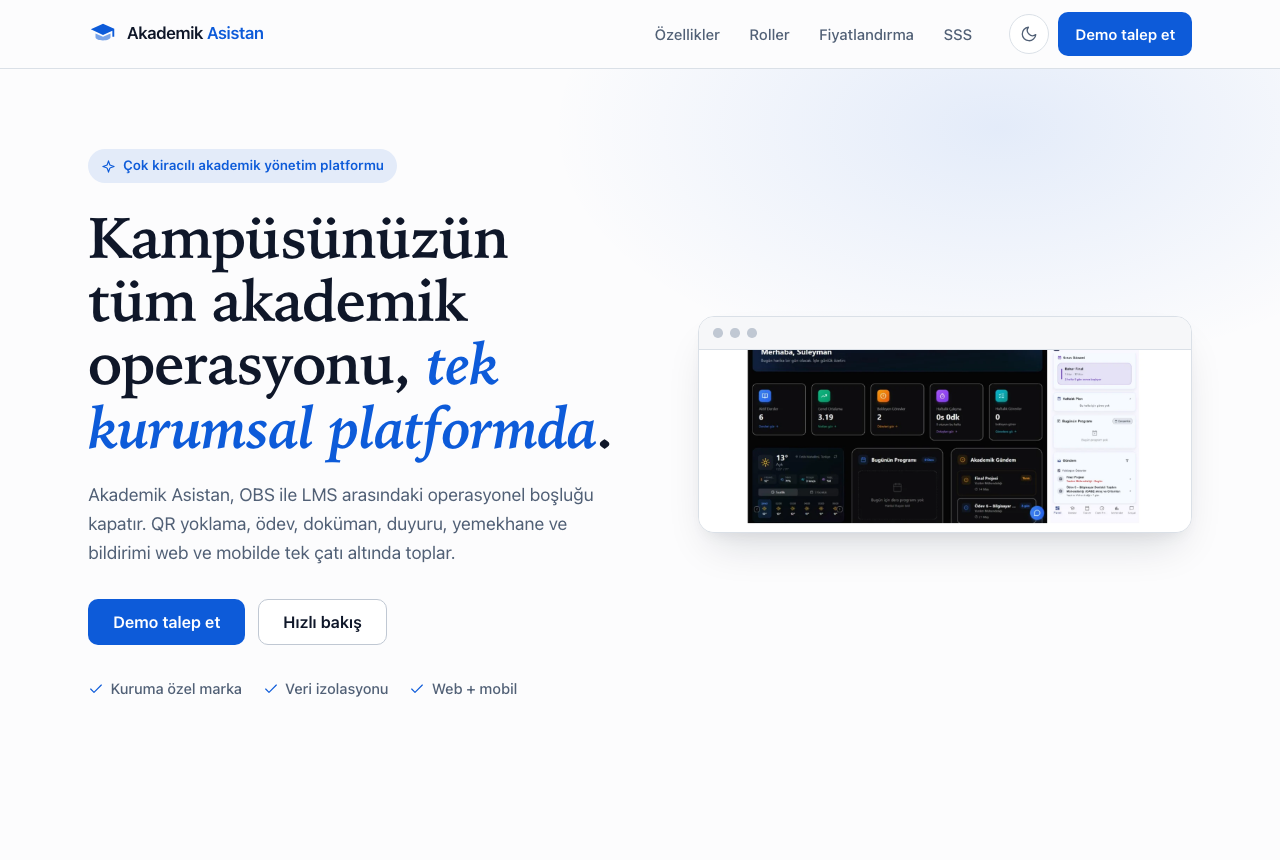
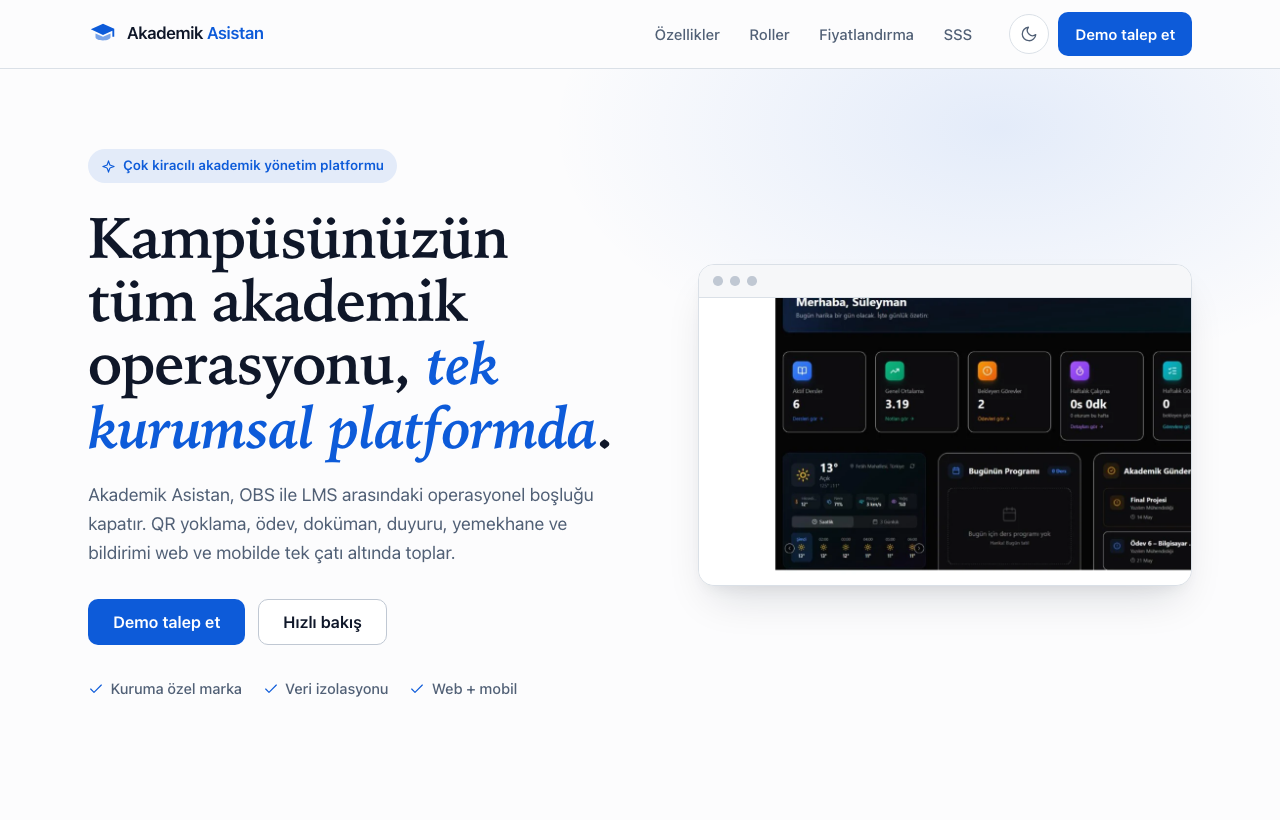
fix: crop hero screenshot to dark web panel for readability
PDF'ten kırpılan görselin beyaz arka planı koyu temada kötü görünüyor ve
yazıları küçüktü; yalnızca koyu web paneline kırpıldı (1006x586).

diff --git a/src/sections/Hero/Hero.tsx b/src/sections/Hero/Hero.tsx
@@ -63,8 +63,8 @@ export function Hero() {
             </span>
             <img
               src={urunPaneli}
-              width={1400}
-              height={518}
+              width={1006}
+              height={586}
               alt="Akademik Asistan öğrenci web paneli ve mobil panel ekran görüntüsü"
               className={styles.shot}
             />

diff --git a/CHANGELOG.md b/CHANGELOG.md
@@ -18,4 +18,4 @@ Biçim [Keep a Changelog](https://keepachangelog.com/tr/1.1.0/) temel alınarak 
 
 ### Değiştirildi
 
-- Hero görseli, CSS önizleme yerine **gerçek ürün ekran görüntüsüyle** (öğrenci web paneli + mobil panel) değiştirildi; ~35 kB webp, Lighthouse performansı 100 korundu.
+- Hero görseli, CSS önizleme yerine **gerçek ürün ekran görüntüsüyle** (öğrenci web paneli) değiştirildi; koyu temada okunabilirlik ve beyaz arka plan sorunu için yalnızca koyu panele kırpıldı (~34 kB webp). Lighthouse performansı 100 korundu.